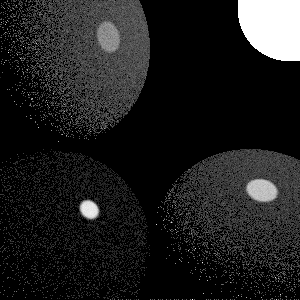
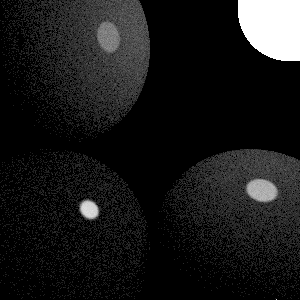
[task07] fix a bug: add cos terms

diff --git a/task07/main.cpp b/task07/main.cpp
@@ -367,7 +367,7 @@ int main() {
         if (hit1_object == -1){ continue; }
         float hit1_rad = spheres[hit1_object].emission;
         // compute the contribution for this pixel
-        float rad = hit0_brdf * hit1_rad / hit0_pdf/ nsample;
+        float rad = hit0_brdf * hit1_rad * hit0_refl.dot(hit0_normal) / hit0_pdf/ nsample;
         img_light[ih * img_width + iw] += rad;
       }
       // -----------------
@@ -386,7 +386,7 @@ int main() {
         if (hit1_object == -1){ continue; }
         float hit1_rad = spheres[hit1_object].emission;
         // compute the contribution for this pixel
-        float rad = hit0_brdf * hit1_rad / hit0_pdf / nsample;
+        float rad = hit0_brdf * hit1_rad * hit0_refl.dot(hit0_normal) / hit0_pdf / nsample;
         img_brdf[ih * img_width + iw] += rad;
       }
       // -----------------
@@ -405,7 +405,7 @@ int main() {
         float hit0_pdf_brdf_sample = spheres[hit0_object].pdf(hit0_normal, cam_ray_dir, hit0_refl);
         float hit0_pdf_light_sample = pdf_light_sample(hit0_normal, hit0_pos, cam_ray_dir, hit0_refl, hit0_object);
         float w_light = hit0_pdf_light_sample / (hit0_pdf_light_sample + hit0_pdf_brdf_sample);
-        float rad = w_light * hit0_brdf * hit1_rad / hit0_pdf_light_sample/ (nsample / 2.);
+        float rad = w_light * hit0_brdf * hit1_rad * hit0_refl.dot(hit0_normal) / hit0_pdf_light_sample/ (nsample / 2.);
         img_mis[ih * img_width + iw] += rad;
       }
       for (int isample = 0; isample < nsample / 2; ++isample) {
@@ -418,7 +418,7 @@ int main() {
         float hit0_pdf_light_sample = pdf_light_sample(hit0_normal, hit0_pos, cam_ray_dir, hit0_refl, hit0_object);
         float hit0_pdf_brdf_sample = spheres[hit0_object].pdf(hit0_normal, cam_ray_dir, hit0_refl);
         float w_brdf = hit0_pdf_brdf_sample / (hit0_pdf_light_sample + hit0_pdf_brdf_sample);
-        float rad = w_brdf * hit0_brdf * hit1_rad / hit0_pdf_brdf_sample/ (nsample / 2.);
+        float rad = w_brdf * hit0_brdf * hit1_rad * hit0_refl.dot(hit0_normal) / hit0_pdf_brdf_sample/ (nsample / 2.);
         img_mis[ih * img_width + iw] += rad;
       }
     }
